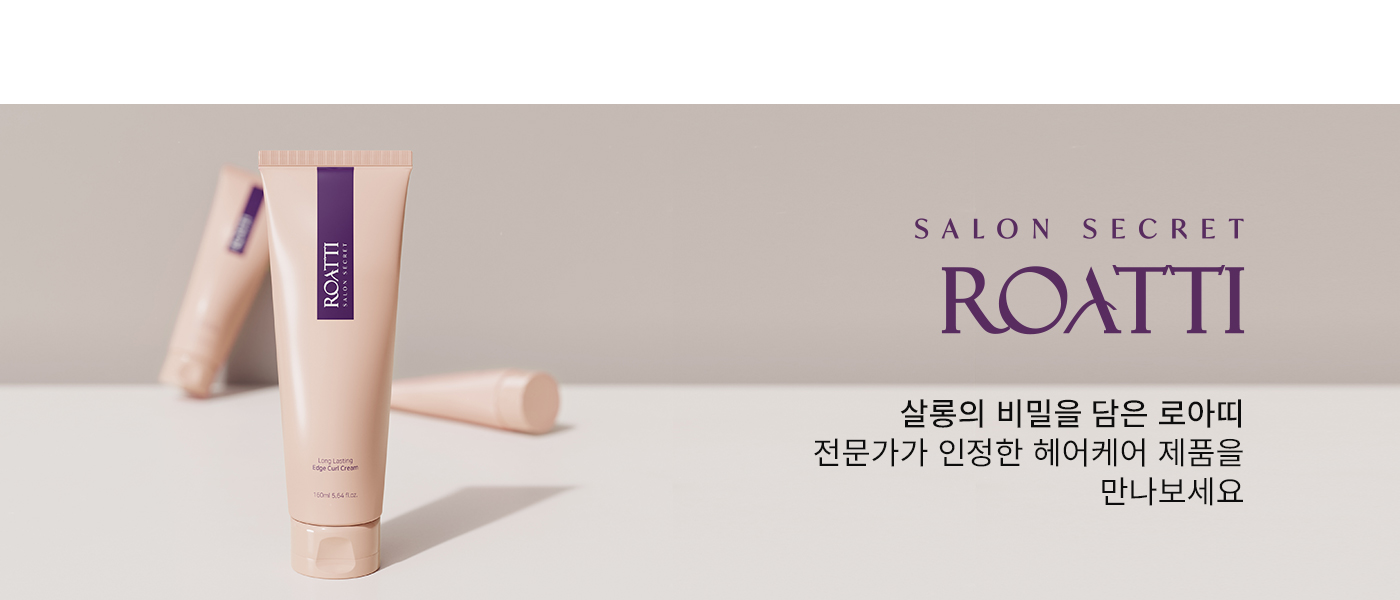
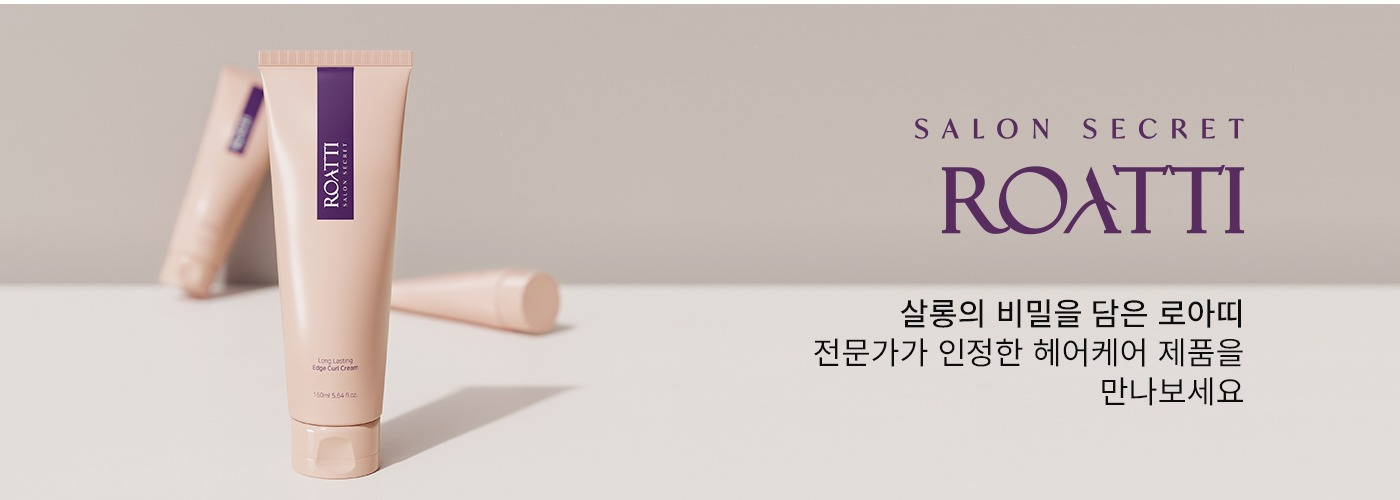
V6.11

diff --git a/index.html b/index.html
@@ -487,8 +487,8 @@
   .mock-note{ text-align:center; color:var(--muted); font-size:11.5px; margin-top:50px; padding-top:16px; border-top:1px dashed var(--border); }
 
   /* ---------- 배너 ---------- */
-  .banner-wrap{ position:relative; width:100vw; left:50%; right:50%; margin-left:-50vw; margin-right:-50vw; overflow:hidden; margin-bottom:28px; background:#eee; }
-  .cat-banner{ position:relative; width:100vw; left:50%; right:50%; margin-left:-50vw; margin-right:-50vw; margin-bottom:22px; overflow:hidden; }
+  .banner-wrap{ position:relative; width:100%; overflow:hidden; margin-bottom:28px; border-radius:10px; background:#eee; }
+  .cat-banner{ position:relative; margin-bottom:22px; border-radius:10px; overflow:hidden; }
   .banner-slides{ display:flex; transition:transform .45s ease; touch-action:pan-y; cursor:grab; }
   .banner-slides.dragging{ transition:none; cursor:grabbing; }
   .banner-slide{ flex:0 0 100%; position:relative; }
@@ -537,7 +537,7 @@
   <div class="inner">
     <span>© 2026 JMW Korea. All rights reserved.</span>
     <span class="sep">|</span>
-    <span class="ver">V6.10</span>
+    <span class="ver">V6.11</span>
     <span class="sep">|</span>
     <span>구매 및 업데이트 문의는 JMW 영업지원팀으로 연락 바랍니다.</span>
   </div>
@@ -662,7 +662,7 @@
 
 <script>
 /* ---------- 버전 ---------- */
-const APP_VERSION = 'V6.10';
+const APP_VERSION = 'V6.11';
 
 /* ---------- 우클릭/복제 방지 (참고: 클라이언트단 저지 수준, 완전 차단은 불가) ---------- */
 document.addEventListener('contextmenu', e=>e.preventDefault());
